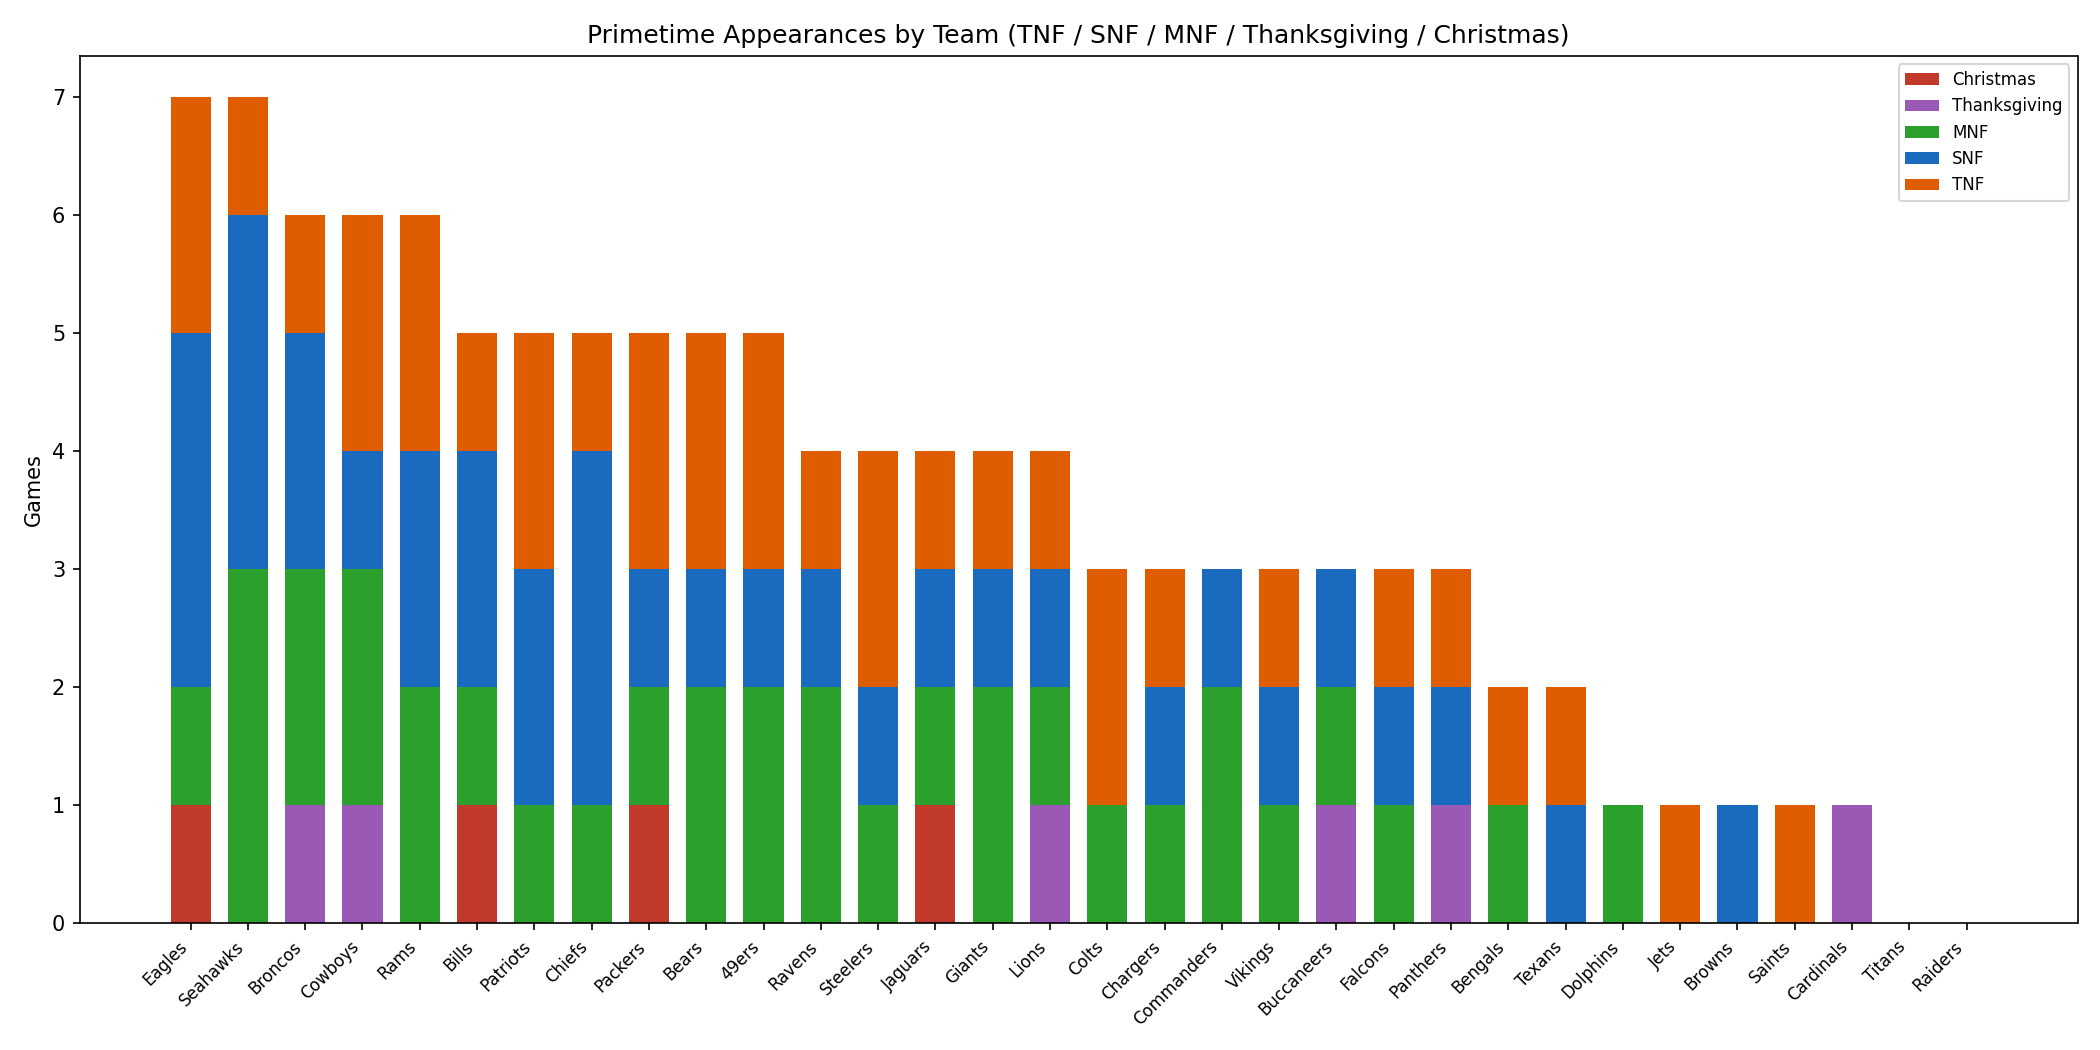
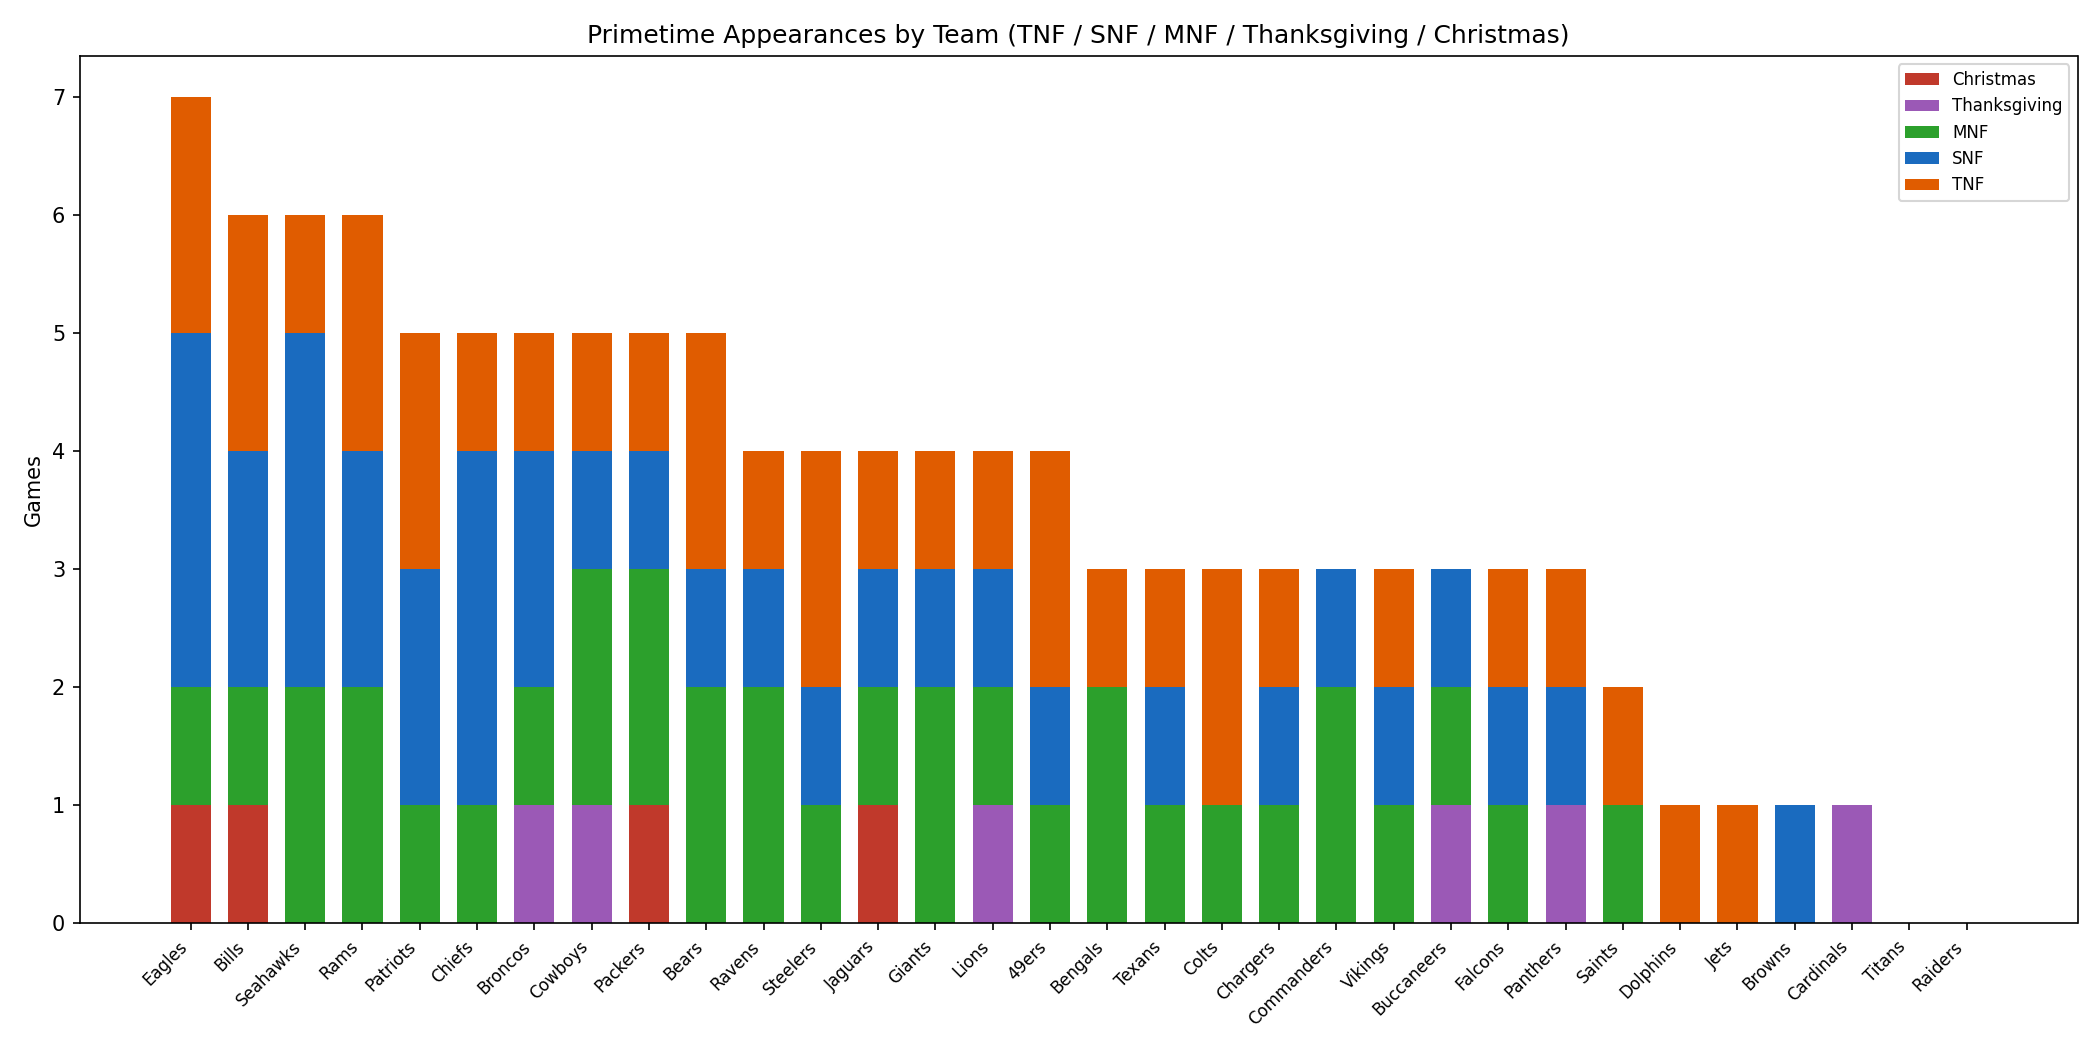
hopefully got the perfect primetime schedule

diff --git a/primetime.html b/primetime.html
@@ -266,10 +266,10 @@
     <div class="week-group">
       <div class="week-label">Week 11</div>
       <div class="game-card tnf">
-        <div class="team-logos"><img src="logos/dallas-cowboys.png" alt="Cowboys"><span class="vs-sep">@</span><img src="logos/green-bay-packers.png" alt="Packers"></div>
+        <div class="team-logos"><img src="logos/buffalo-bills.png" alt="Bills"><span class="vs-sep">@</span><img src="logos/miami-dolphins.png" alt="Dolphins"></div>
         <div class="game-info">
-          <div class="matchup">Cowboys @ Packers</div>
-          <div class="game-meta">4:25 PM ET</div>
+          <div class="matchup">Bills @ Dolphins</div>
+          <div class="game-meta">1:00 PM ET</div>
           <div class="game-note">Thursday Night Football</div>
         </div>
         <span class="badge tnf">TNF</span>
@@ -326,9 +326,9 @@
     <div class="week-group">
       <div class="week-label">Week 16</div>
       <div class="game-card tnf">
-        <div class="team-logos"><img src="logos/houston-texans.png" alt="Texans"><span class="vs-sep">@</span><img src="logos/indianapolis-colts.png" alt="Colts"></div>
+        <div class="team-logos"><img src="logos/indianapolis-colts.png" alt="Colts"><span class="vs-sep">@</span><img src="logos/houston-texans.png" alt="Texans"></div>
         <div class="game-info">
-          <div class="matchup">Texans @ Colts</div>
+          <div class="matchup">Colts @ Texans</div>
           <div class="game-meta">1:00 PM ET</div>
           <div class="game-note">Thursday Night Football</div>
         </div>
@@ -666,10 +666,10 @@
     <div class="week-group">
       <div class="week-label">Week 8</div>
       <div class="game-card mnf">
-        <div class="team-logos"><img src="logos/san-francisco-49ers.png" alt="49ers"><span class="vs-sep">@</span><img src="logos/seattle-seahawks.png" alt="Seahawks"></div>
+        <div class="team-logos"><img src="logos/houston-texans.png" alt="Texans"><span class="vs-sep">@</span><img src="logos/green-bay-packers.png" alt="Packers"></div>
         <div class="game-info">
-          <div class="matchup">49ers @ Seahawks</div>
-          <div class="game-meta">4:25 PM ET</div>
+          <div class="matchup">Texans @ Packers</div>
+          <div class="game-meta">1:00 PM ET</div>
           <div class="game-note">Monday Night Football</div>
         </div>
         <span class="badge mnf">MNF</span>
@@ -726,10 +726,10 @@
     <div class="week-group">
       <div class="week-label">Week 13</div>
       <div class="game-card mnf">
-        <div class="team-logos"><img src="logos/miami-dolphins.png" alt="Dolphins"><span class="vs-sep">@</span><img src="logos/denver-broncos.png" alt="Broncos"></div>
+        <div class="team-logos"><img src="logos/new-orleans-saints.png" alt="Saints"><span class="vs-sep">@</span><img src="logos/cincinnati-bengals.png" alt="Bengals"></div>
         <div class="game-info">
-          <div class="matchup">Dolphins @ Broncos</div>
-          <div class="game-meta">8:15 PM ET</div>
+          <div class="matchup">Saints @ Bengals</div>
+          <div class="game-meta">1:00 PM ET</div>
           <div class="game-note">Monday Night Football</div>
         </div>
         <span class="badge mnf">MNF</span>

diff --git a/schedules/houston-texans.html b/schedules/houston-texans.html
@@ -134,9 +134,9 @@
         </tr>
         <tr class="">
           <td>8</td>
-          <td>November 1</td>
+          <td>November 2</td>
           <td class="opponent">at <span class="opp-name">Packers</span></td>
-          <td>1:00 PM ET</td>
+          <td>1:00 PM ET (Monday Night Football)</td>
         </tr>
         <tr class="divisional">
           <td>9</td>
@@ -182,7 +182,7 @@
         <tr class="divisional">
           <td>16</td>
           <td>December 24</td>
-          <td class="opponent">at <span class="opp-name">Colts</span></td>
+          <td class="opponent"><span class="opp-name">Colts</span></td>
           <td>1:00 PM ET (Thursday Night Football)</td>
         </tr>
         <tr class="divisional">
@@ -194,7 +194,7 @@
         <tr class="divisional">
           <td>18</td>
           <td>January 10</td>
-          <td class="opponent"><span class="opp-name">Colts</span></td>
+          <td class="opponent">at <span class="opp-name">Colts</span></td>
           <td>TBD (Flex Scheduling - Nighttime)</td>
         </tr>
     </tbody>

diff --git a/schedules/miami-dolphins.html b/schedules/miami-dolphins.html
@@ -151,9 +151,9 @@
         </tr>
         <tr class="divisional">
           <td>11</td>
-          <td>November 22</td>
+          <td>November 19</td>
           <td class="opponent"><span class="opp-name">Bills</span></td>
-          <td>1:00 PM ET</td>
+          <td>1:00 PM ET (Thursday Night Football)</td>
         </tr>
         <tr class="divisional">
           <td>12</td>
@@ -163,9 +163,9 @@
         </tr>
         <tr class="">
           <td>13</td>
-          <td>December 7</td>
+          <td>December 6</td>
           <td class="opponent">at <span class="opp-name">Broncos</span></td>
-          <td>8:15 PM ET (Monday Night Football)</td>
+          <td>8:15 PM ET</td>
         </tr>
         <tr class="divisional">
           <td>14</td>

diff --git a/schedules/green-bay-packers.html b/schedules/green-bay-packers.html
@@ -134,9 +134,9 @@
         </tr>
         <tr class="">
           <td>8</td>
-          <td>November 1</td>
+          <td>November 2</td>
           <td class="opponent"><span class="opp-name">Texans</span></td>
-          <td>1:00 PM ET</td>
+          <td>1:00 PM ET (Monday Night Football)</td>
         </tr>
         <tr class="">
           <td>9</td>
@@ -152,9 +152,9 @@
         </tr>
         <tr class="">
           <td>11</td>
-          <td>November 19</td>
+          <td>November 22</td>
           <td class="opponent"><span class="opp-name">Cowboys</span></td>
-          <td>4:25 PM ET (Thursday Night Football)</td>
+          <td>4:25 PM ET</td>
         </tr>
         <tr class="divisional">
           <td>12</td>

diff --git a/schedules/indianapolis-colts.html b/schedules/indianapolis-colts.html
@@ -182,7 +182,7 @@
         <tr class="divisional">
           <td>16</td>
           <td>December 24</td>
-          <td class="opponent"><span class="opp-name">Texans</span></td>
+          <td class="opponent">at <span class="opp-name">Texans</span></td>
           <td>1:00 PM ET (Thursday Night Football)</td>
         </tr>
         <tr class="">
@@ -194,7 +194,7 @@
         <tr class="divisional">
           <td>18</td>
           <td>January 10</td>
-          <td class="opponent">at <span class="opp-name">Texans</span></td>
+          <td class="opponent"><span class="opp-name">Texans</span></td>
           <td>TBD (Flex Scheduling - Nighttime)</td>
         </tr>
     </tbody>

diff --git a/schedules/buffalo-bills.html b/schedules/buffalo-bills.html
@@ -151,9 +151,9 @@
         </tr>
         <tr class="divisional">
           <td>11</td>
-          <td>November 22</td>
+          <td>November 19</td>
           <td class="opponent">at <span class="opp-name">Dolphins</span></td>
-          <td>1:00 PM ET</td>
+          <td>1:00 PM ET (Thursday Night Football)</td>
         </tr>
         <tr class="">
           <td>12</td>

diff --git a/schedules/new-orleans-saints.html b/schedules/new-orleans-saints.html
@@ -163,9 +163,9 @@
         </tr>
         <tr class="">
           <td>13</td>
-          <td>December 6</td>
+          <td>December 7</td>
           <td class="opponent">at <span class="opp-name">Bengals</span></td>
-          <td>1:00 PM ET</td>
+          <td>1:00 PM ET (Monday Night Football)</td>
         </tr>
         <tr class="divisional">
           <td>14</td>

diff --git a/schedules/seattle-seahawks.html b/schedules/seattle-seahawks.html
@@ -134,9 +134,9 @@
         </tr>
         <tr class="divisional">
           <td>8</td>
-          <td>November 2</td>
+          <td>November 1</td>
           <td class="opponent"><span class="opp-name">49ers</span></td>
-          <td>4:25 PM ET (Monday Night Football)</td>
+          <td>4:25 PM ET</td>
         </tr>
         <tr class="bye-row">
           <td>9</td>

diff --git a/schedules/san-francisco-49ers.html b/schedules/san-francisco-49ers.html
@@ -134,9 +134,9 @@
         </tr>
         <tr class="divisional">
           <td>8</td>
-          <td>November 2</td>
+          <td>November 1</td>
           <td class="opponent">at <span class="opp-name">Seahawks</span></td>
-          <td>4:25 PM ET (Monday Night Football)</td>
+          <td>4:25 PM ET</td>
         </tr>
         <tr class="">
           <td>9</td>

diff --git a/schedules/cincinnati-bengals.html b/schedules/cincinnati-bengals.html
@@ -163,9 +163,9 @@
         </tr>
         <tr class="">
           <td>13</td>
-          <td>December 6</td>
+          <td>December 7</td>
           <td class="opponent"><span class="opp-name">Saints</span></td>
-          <td>1:00 PM ET</td>
+          <td>1:00 PM ET (Monday Night Football)</td>
         </tr>
         <tr class="divisional">
           <td>14</td>

diff --git a/schedules/dallas-cowboys.html b/schedules/dallas-cowboys.html
@@ -152,9 +152,9 @@
         </tr>
         <tr class="">
           <td>11</td>
-          <td>November 19</td>
+          <td>November 22</td>
           <td class="opponent">at <span class="opp-name">Packers</span></td>
-          <td>4:25 PM ET (Thursday Night Football)</td>
+          <td>4:25 PM ET</td>
         </tr>
         <tr class="">
           <td>12</td>

diff --git a/schedules/denver-broncos.html b/schedules/denver-broncos.html
@@ -163,9 +163,9 @@
         </tr>
         <tr class="">
           <td>13</td>
-          <td>December 7</td>
+          <td>December 6</td>
           <td class="opponent"><span class="opp-name">Dolphins</span></td>
-          <td>8:15 PM ET (Monday Night Football)</td>
+          <td>8:15 PM ET</td>
         </tr>
         <tr class="">
           <td>14</td>
